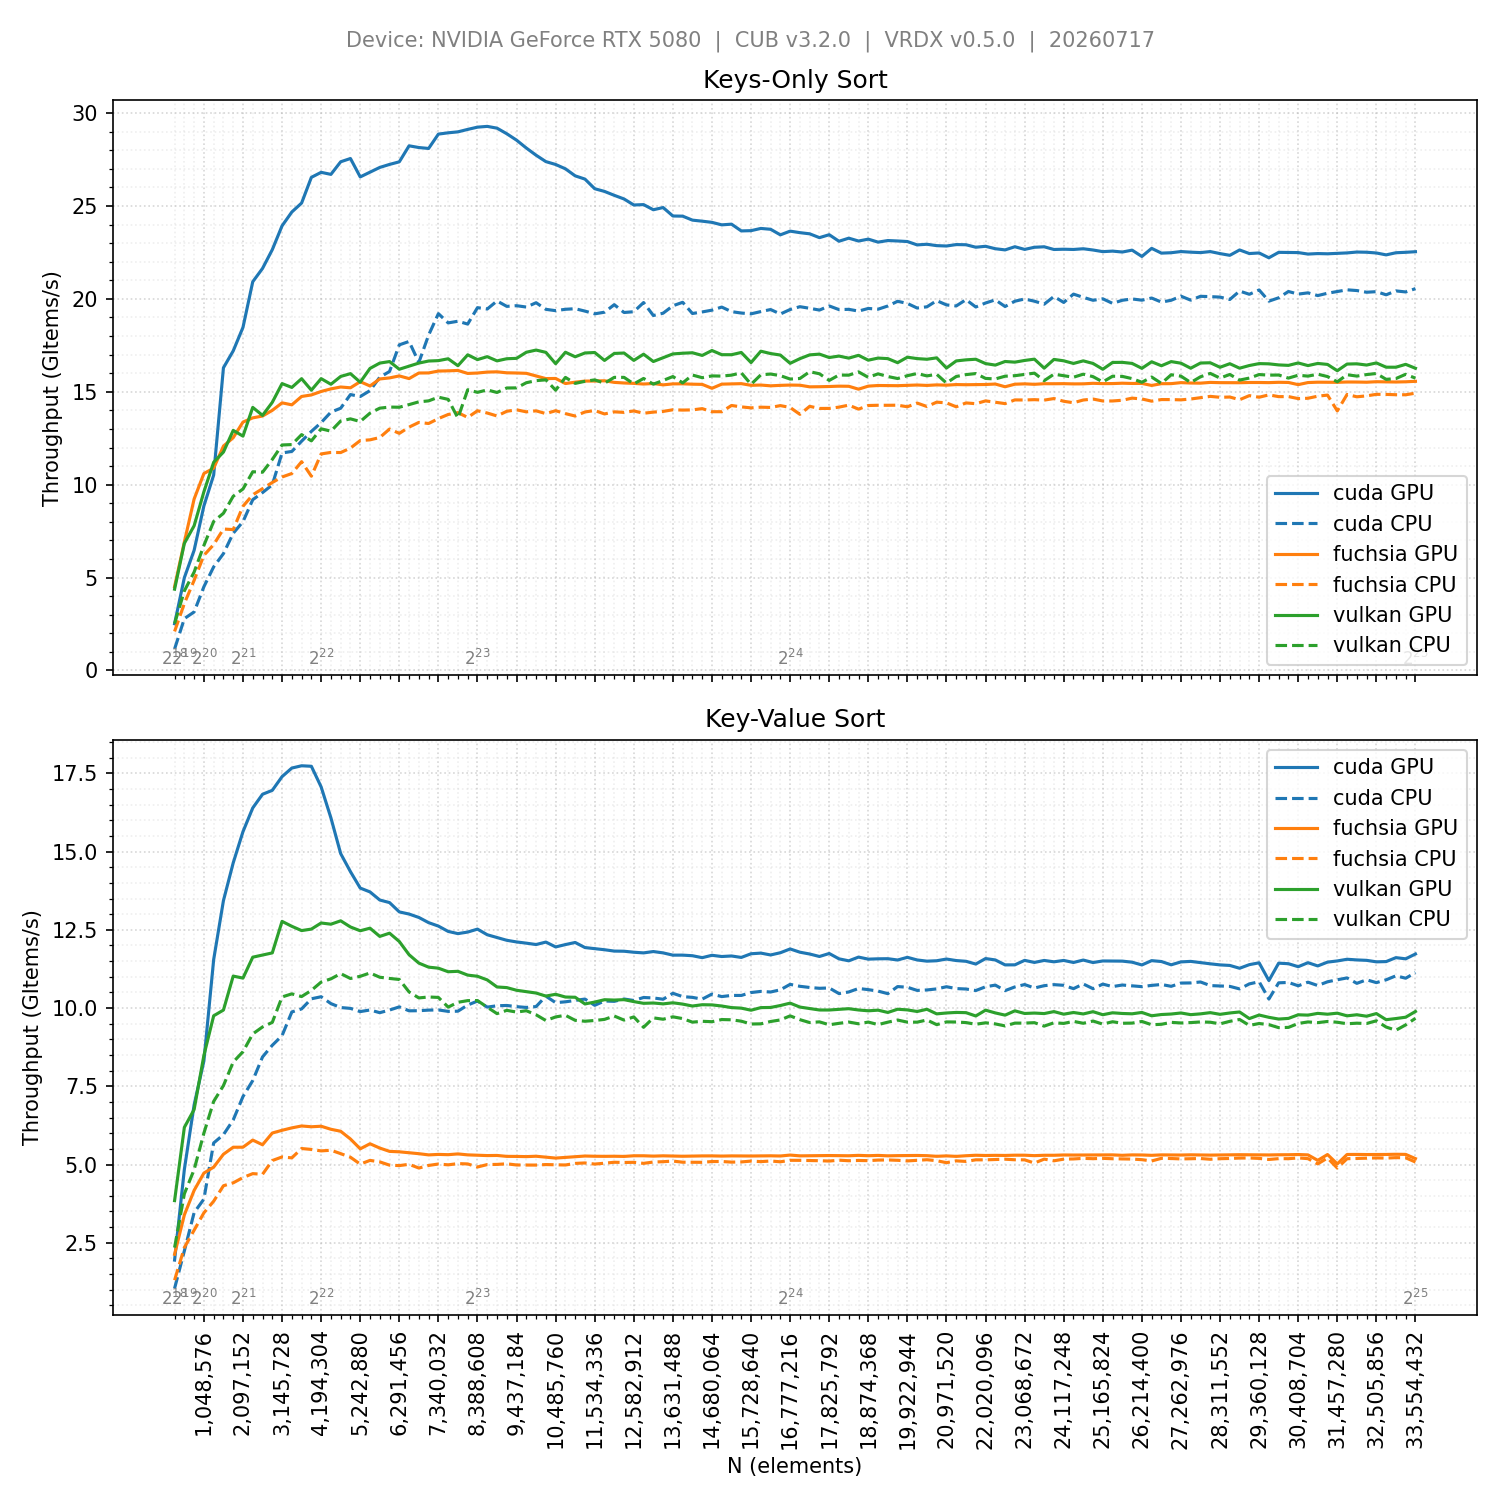
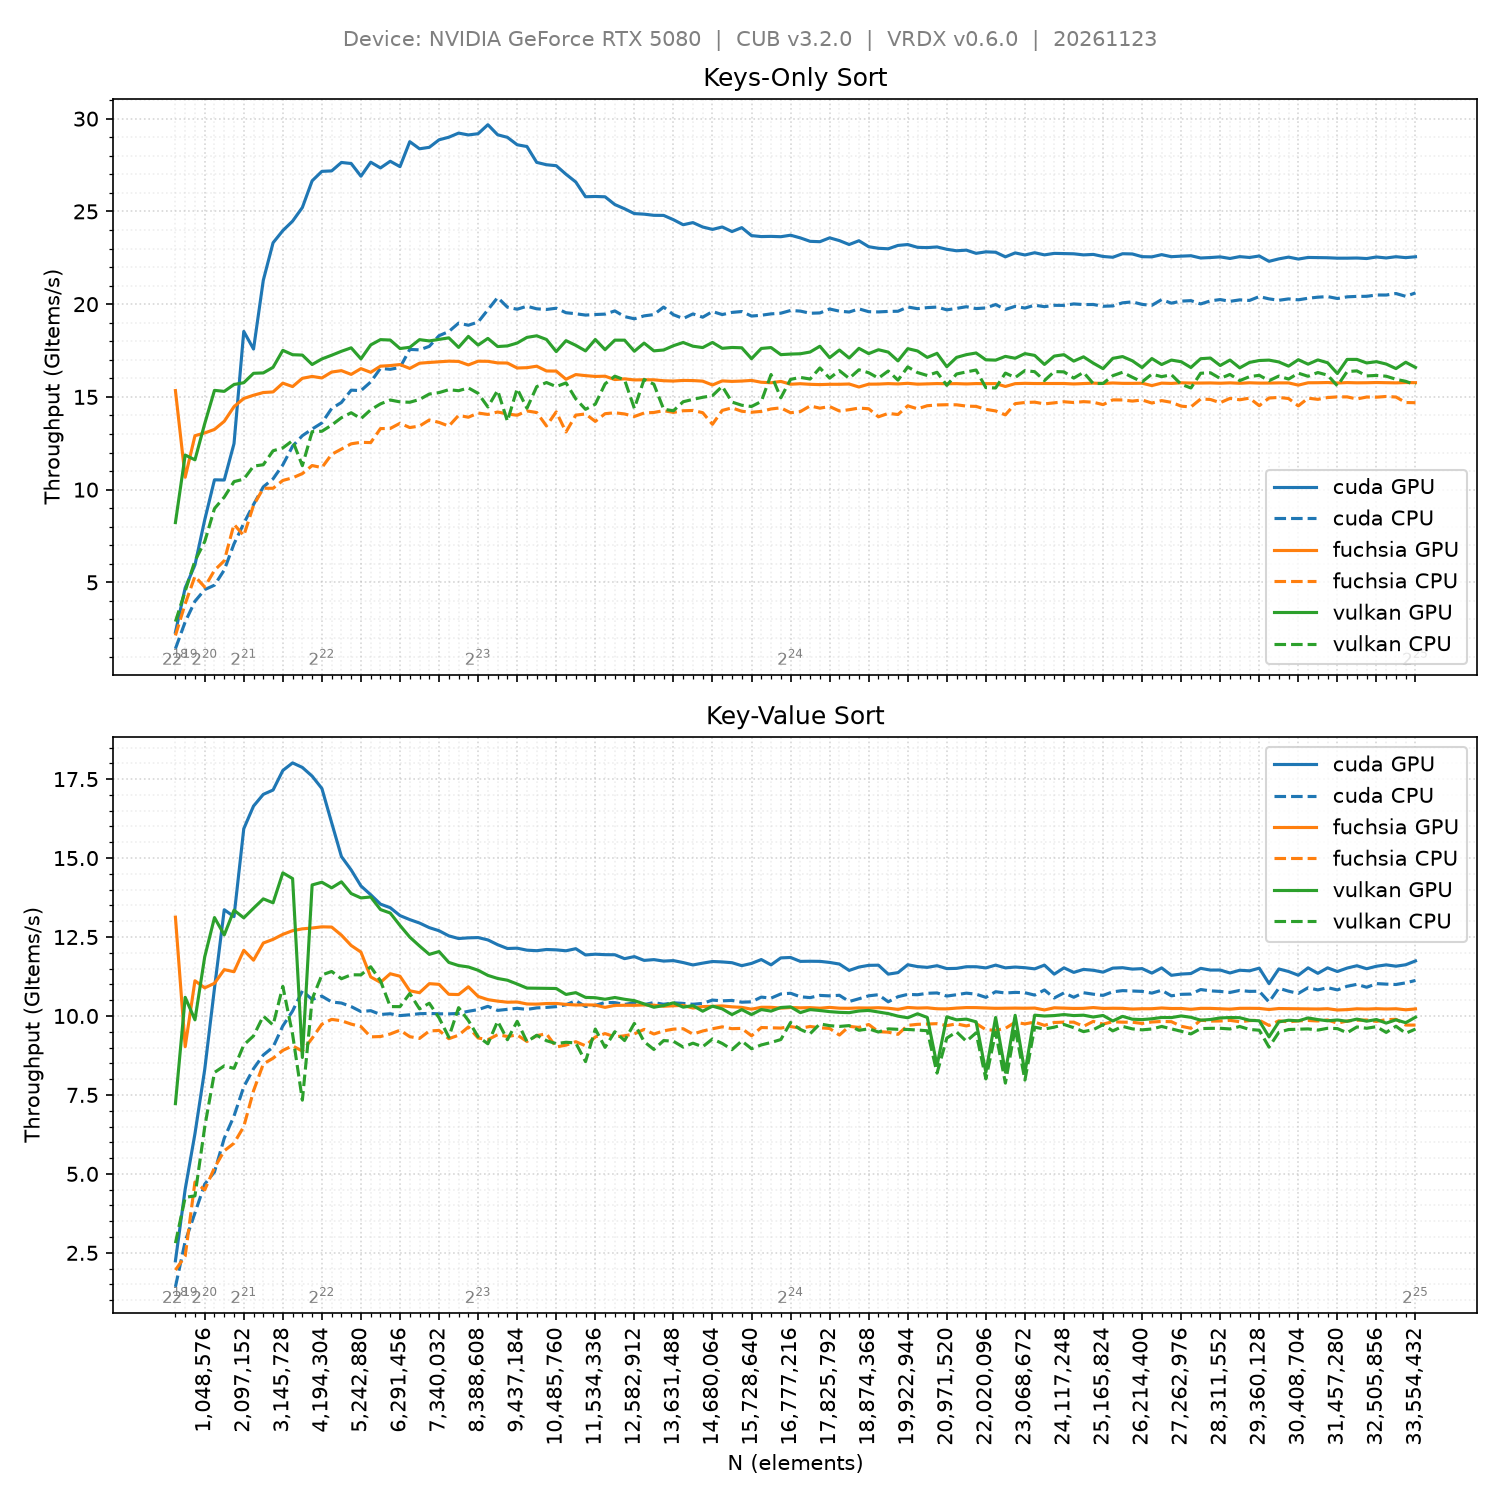
fix: sort only 32 key bits in Fuchsia key-value benchmark
Fuchsia treats the most significant `key_bits` of each keyval as the key.
The benchmark packed (key << 32 | original_index) and sorted all 64 bits,
running 8 passes instead of 4. Pack (key << 32 | value) and set
key_bits = 32; LSD radix sort is already stable, so the index is not needed.

Refresh README results and plot: Fuchsia key-value at N = 2^25 goes from
5.19 to 10.22 GItems/s on RTX 5080.

Closes #30

diff --git a/bench/fuchsia_benchmark.cc b/bench/fuchsia_benchmark.cc
@@ -330,10 +330,11 @@ FuchsiaBenchmark::Results FuchsiaBenchmark::SortKeyValue(const std::vector<uint3
   Reallocate(&kv_odd_, mr.keyvals_size, kKeyval);
   Reallocate(&kv_internal_, mr.internal_size, kInternal);
 
-  // Pack (key << 32 | original_index) to produce a stable sort by key.
-  // After sorting, unpack: key = upper 32 bits, value = values[lower 32 bits].
+  // Pack (key << 32 | value). Fuchsia treats the most significant `key_bits` of each keyval as the
+  // key, so with key_bits = 32 only the upper 32 bits are sorted (4 passes) and the value is carried
+  // along. LSD radix sort is stable, so equal keys keep their original relative order.
   auto* packed = reinterpret_cast<uint64_t*>(staging_.map);
-  for (uint32_t i = 0; i < n; ++i) packed[i] = (static_cast<uint64_t>(keys[i]) << 32) | i;
+  for (uint32_t i = 0; i < n; ++i) packed[i] = (static_cast<uint64_t>(keys[i]) << 32) | values[i];
 
   VkCommandBufferBeginInfo begin = {VK_STRUCTURE_TYPE_COMMAND_BUFFER_BEGIN_INFO};
   begin.flags = VK_COMMAND_BUFFER_USAGE_ONE_TIME_SUBMIT_BIT;
@@ -357,7 +358,7 @@ FuchsiaBenchmark::Results FuchsiaBenchmark::SortKeyValue(const std::vector<uint3
   vkCmdWriteTimestamp(command_buffer_, VK_PIPELINE_STAGE_TOP_OF_PIPE_BIT, query_pool_, 0);
 
   radix_sort_vk_sort_info_t sort_info = {};
-  sort_info.key_bits = 64;
+  sort_info.key_bits = 32;
   sort_info.count = n;
   sort_info.keyvals_even = {kv_even_.buffer, 0, mr.keyvals_size};
   sort_info.keyvals_odd = {kv_odd_.buffer, 0, mr.keyvals_size};
@@ -394,7 +395,7 @@ FuchsiaBenchmark::Results FuchsiaBenchmark::SortKeyValue(const std::vector<uint3
   const auto* sorted = reinterpret_cast<const uint64_t*>(staging_.map);
   for (uint32_t i = 0; i < n; ++i) {
     result.keys[i] = static_cast<uint32_t>(sorted[i] >> 32);
-    result.values[i] = values[sorted[i] & 0xFFFFFFFFu];
+    result.values[i] = static_cast<uint32_t>(sorted[i] & 0xFFFFFFFFu);
   }
   result.total_time = static_cast<uint64_t>((timestamps[1] - timestamps[0]) *
                                             static_cast<double>(timestamp_period_));

diff --git a/README.md b/README.md
@@ -76,14 +76,14 @@ Median GPU and CPU throughput at N = 2^25. Ratios are GPU throughput relative to
 
 | Sort type | Backend | GPU (GItems/s) | CPU (GItems/s) | Ratio |
 |---|---|---|---|---|
-| 32-bit keys only | VRDX | 16.26 | 15.73 | – |
-| 32-bit keys only | Fuchsia | 15.56 | 14.92 | 0.96× |
-| 32-bit keys only | CUB | 22.54 | 20.55 | 1.39× |
-| 32-bit key-value | VRDX | 9.89 | 9.67 | – |
-| 32-bit key-value | Fuchsia | 5.19 | 5.08 | 0.52× |
-| 32-bit key-value | CUB | 11.73 | 11.13 | 1.19× |
+| 32-bit keys only | VRDX | 16.59 | 15.65 | – |
+| 32-bit keys only | Fuchsia | 15.77 | 14.69 | 0.95× |
+| 32-bit keys only | CUB | 22.55 | 20.61 | 1.36× |
+| 32-bit key-value | VRDX | 9.96 | 9.59 | – |
+| 32-bit key-value | Fuchsia | 10.22 | 9.71 | 1.03× |
+| 32-bit key-value | CUB | 11.74 | 11.13 | 1.18× |
 
-Keys-only now edges out [Fuchsia radix sort](https://github.com/juliusikkala/fuchsia_radix_sort) by about 5%, after transposing the partition-histogram layout for coalesced spine access and skipping padding partitions in indirect sorts. Fuchsia is 1.91× slower on key-value — it packs pairs into a single 64-bit key, doubling memory traffic, while this library sorts the two buffers independently. Key-value still trails CUB by 1.19×, with room for a similar optimization.
+Keys-only now edges out [Fuchsia radix sort](https://github.com/juliusikkala/fuchsia_radix_sort) by about 5%, after transposing the partition-histogram layout for coalesced spine access and skipping padding partitions in indirect sorts. On key-value, Fuchsia is about 3% faster at large N: it packs each pair into a 64-bit keyval and sorts only the upper 32 key bits (4 passes), while this library sorts the key and value buffers independently. Key-value still trails CUB by 1.18×, with room for a similar optimization.
 
 ![Benchmark Result](media/results.png)
 
